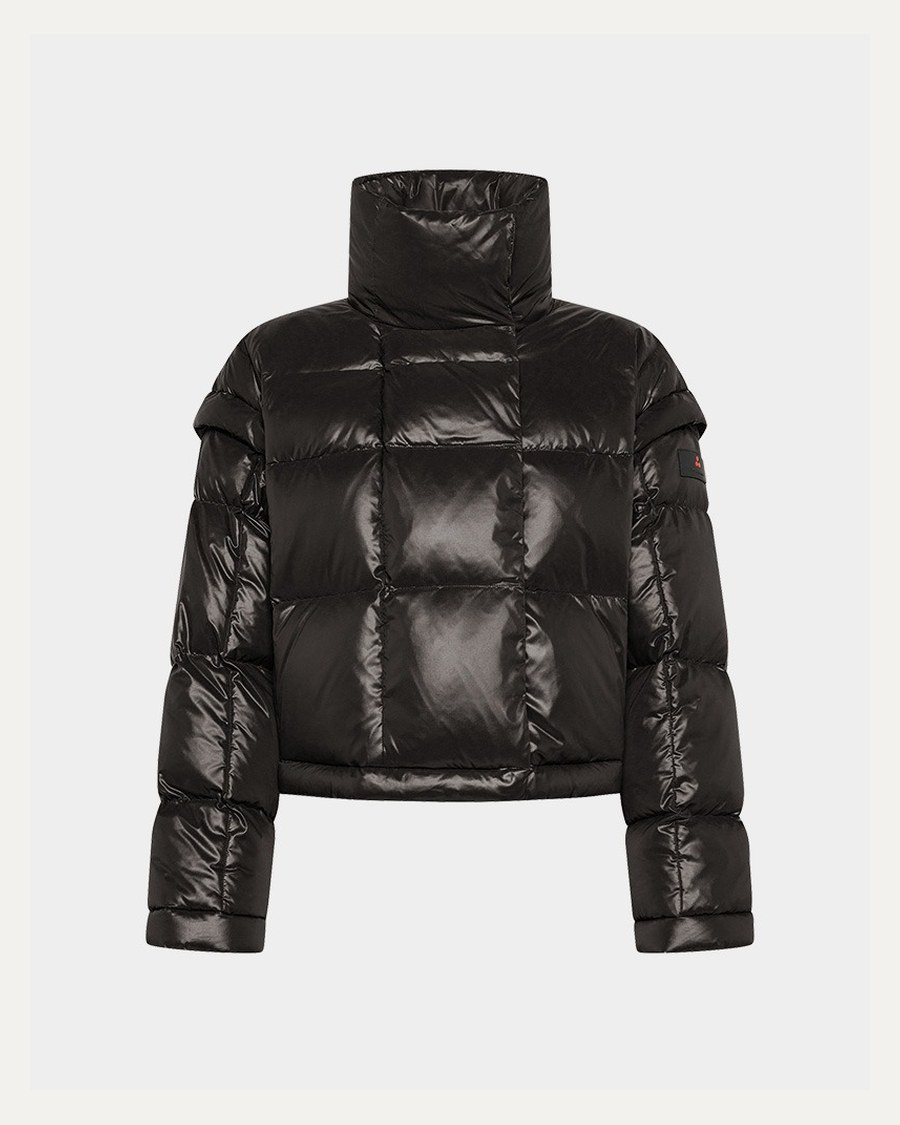
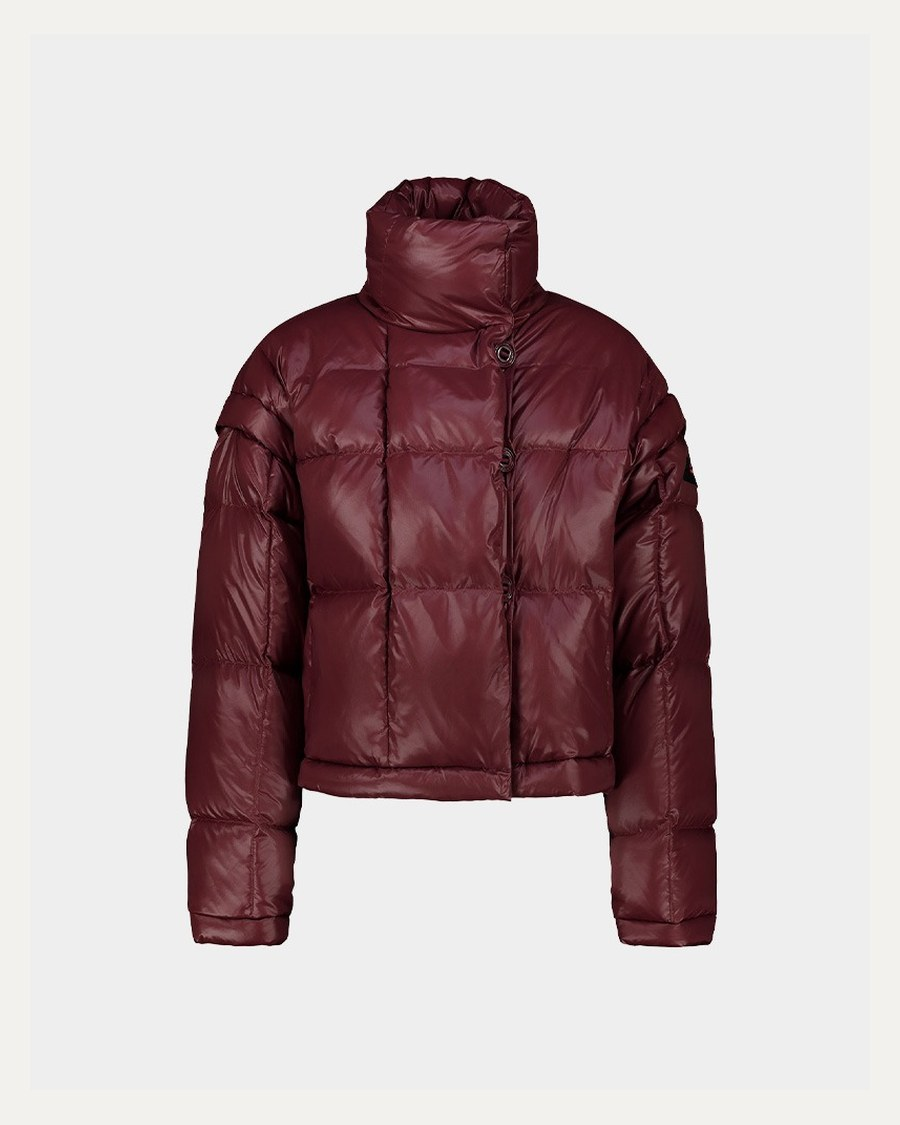
fix: 페트레이 26 TOGO 대표 이미지를 와인 컬러 컷으로 교체, 월드컵 기준일 11/21 통일

Changed region(s): [[0.1556, 0.1244, 0.84, 0.8711]]

diff --git a/look-koso-young-peuterey-togo.html b/look-koso-young-peuterey-togo.html
@@ -16,18 +16,18 @@
 <meta property="og:title" content="고소영 와인색 패딩, 페트레이 26 TOGO 1,580,000원 → 1,264,000원">
 <meta property="og:description" content="고소영이 유튜브 촬영에서 입은 페트레이 26 TOGO 토고 다운. 소비자가 1,580,000원에서 20% 할인된 1,264,000원, 폴리아미드 100% 겉감과 덕다운 80% 충전재, 7만 원대 대안까지 정리했습니다.">
 <meta property="og:url" content="https://jinyou1129-bit.github.io/star-fit-pick/look-koso-young-peuterey-togo.html">
-<meta property="og:image" content="https://jinyou1129-bit.github.io/star-fit-pick/assets/looks/koso-young-peuterey-togo.jpg?v=2026112301">
+<meta property="og:image" content="https://jinyou1129-bit.github.io/star-fit-pick/assets/looks/koso-young-peuterey-togo.jpg?v=2026112302">
 <meta property="og:image:width" content="900">
 <meta property="og:image:height" content="1125">
 <meta name="twitter:card" content="summary_large_image">
 <meta name="twitter:title" content="고소영 와인색 패딩, 페트레이 26 TOGO 1,580,000원 → 1,264,000원">
 <meta name="twitter:description" content="고소영이 유튜브 촬영에서 입은 페트레이 26 TOGO 토고 다운. 소비자가 1,580,000원에서 20% 할인된 1,264,000원, 폴리아미드 100% 겉감과 덕다운 80% 충전재, 7만 원대 대안까지 정리했습니다.">
-<meta name="twitter:image" content="https://jinyou1129-bit.github.io/star-fit-pick/assets/looks/koso-young-peuterey-togo.jpg?v=2026112301">
+<meta name="twitter:image" content="https://jinyou1129-bit.github.io/star-fit-pick/assets/looks/koso-young-peuterey-togo.jpg?v=2026112302">
 <link rel="icon" href="assets/favicon.svg" type="image/svg+xml">
 <link rel="preconnect" href="https://cdn.jsdelivr.net" crossorigin>
 <link rel="stylesheet" href="https://cdn.jsdelivr.net/gh/orioncactus/pretendard@v1.3.9/dist/web/variable/pretendardvariable-dynamic-subset.min.css">
 <link rel="stylesheet" href="style.css?v=20261122a">
-<script type="application/ld+json">{"@context":"https://schema.org","@graph":[{"@type":"Article","@id":"https://jinyou1129-bit.github.io/star-fit-pick/look-koso-young-peuterey-togo.html#article","headline":"고소영 와인색 패딩, 페트레이 26 TOGO 1,580,000원 → 1,264,000원","description":"고소영이 유튜브 촬영에서 입은 페트레이 26 TOGO 토고 다운. 소비자가 1,580,000원에서 20% 할인된 1,264,000원, 폴리아미드 100% 겉감과 덕다운 80% 충전재, 7만 원대 대안까지 정리했습니다.","image":["https://jinyou1129-bit.github.io/star-fit-pick/assets/looks/koso-young-peuterey-togo.jpg?v=2026112301"],"datePublished":"2026-11-21","dateModified":"2026-11-21","inLanguage":"ko-KR","author":{"@type":"Organization","name":"스타핏픽","url":"https://jinyou1129-bit.github.io/star-fit-pick/"},"publisher":{"@type":"Organization","name":"스타핏픽","url":"https://jinyou1129-bit.github.io/star-fit-pick/"},"mainEntityOfPage":{"@type":"WebPage","@id":"https://jinyou1129-bit.github.io/star-fit-pick/look-koso-young-peuterey-togo.html"},"articleSection":"착장 포스팅","keywords":"고소영 페트레이, 연예인 착장 가격, 일상, 가성비 대안","about":[{"@type":"Product","name":"26 TOGO 토고","brand":{"@type":"Brand","name":"페트레이"},"offers":{"@type":"Offer","price":"1264000","priceCurrency":"KRW","availability":"https://schema.org/InStock"}},{"@type":"Product","name":"울트라라이트 다운 재킷","brand":{"@type":"Brand","name":"유니클로"},"offers":{"@type":"Offer","price":"79900","priceCurrency":"KRW","availability":"https://schema.org/InStock"}}],"isPartOf":{"@type":"CollectionPage","@id":"https://jinyou1129-bit.github.io/star-fit-pick/posts.html"}},{"@type":"BreadcrumbList","itemListElement":[{"@type":"ListItem","position":1,"name":"스타핏픽","item":"https://jinyou1129-bit.github.io/star-fit-pick/"},{"@type":"ListItem","position":2,"name":"착장 포스팅","item":"https://jinyou1129-bit.github.io/star-fit-pick/posts.html"},{"@type":"ListItem","position":3,"name":"고소영 와인색 패딩, 페트레이 26 TOGO 1,580,000원 → 1,264,000원","item":"https://jinyou1129-bit.github.io/star-fit-pick/look-koso-young-peuterey-togo.html"}]}]}</script>
+<script type="application/ld+json">{"@context":"https://schema.org","@graph":[{"@type":"Article","@id":"https://jinyou1129-bit.github.io/star-fit-pick/look-koso-young-peuterey-togo.html#article","headline":"고소영 와인색 패딩, 페트레이 26 TOGO 1,580,000원 → 1,264,000원","description":"고소영이 유튜브 촬영에서 입은 페트레이 26 TOGO 토고 다운. 소비자가 1,580,000원에서 20% 할인된 1,264,000원, 폴리아미드 100% 겉감과 덕다운 80% 충전재, 7만 원대 대안까지 정리했습니다.","image":["https://jinyou1129-bit.github.io/star-fit-pick/assets/looks/koso-young-peuterey-togo.jpg?v=2026112302"],"datePublished":"2026-11-21","dateModified":"2026-11-21","inLanguage":"ko-KR","author":{"@type":"Organization","name":"스타핏픽","url":"https://jinyou1129-bit.github.io/star-fit-pick/"},"publisher":{"@type":"Organization","name":"스타핏픽","url":"https://jinyou1129-bit.github.io/star-fit-pick/"},"mainEntityOfPage":{"@type":"WebPage","@id":"https://jinyou1129-bit.github.io/star-fit-pick/look-koso-young-peuterey-togo.html"},"articleSection":"착장 포스팅","keywords":"고소영 페트레이, 연예인 착장 가격, 일상, 가성비 대안","about":[{"@type":"Product","name":"26 TOGO 토고","brand":{"@type":"Brand","name":"페트레이"},"offers":{"@type":"Offer","price":"1264000","priceCurrency":"KRW","availability":"https://schema.org/InStock"}},{"@type":"Product","name":"울트라라이트 다운 재킷","brand":{"@type":"Brand","name":"유니클로"},"offers":{"@type":"Offer","price":"79900","priceCurrency":"KRW","availability":"https://schema.org/InStock"}}],"isPartOf":{"@type":"CollectionPage","@id":"https://jinyou1129-bit.github.io/star-fit-pick/posts.html"}},{"@type":"BreadcrumbList","itemListElement":[{"@type":"ListItem","position":1,"name":"스타핏픽","item":"https://jinyou1129-bit.github.io/star-fit-pick/"},{"@type":"ListItem","position":2,"name":"착장 포스팅","item":"https://jinyou1129-bit.github.io/star-fit-pick/posts.html"},{"@type":"ListItem","position":3,"name":"고소영 와인색 패딩, 페트레이 26 TOGO 1,580,000원 → 1,264,000원","item":"https://jinyou1129-bit.github.io/star-fit-pick/look-koso-young-peuterey-togo.html"}]}]}</script>
 </head>
 <body>
 <a class="skip" href="#article">본문으로 바로가기</a>
@@ -65,10 +65,10 @@
     <article class="article-body">
       <figure class="post-figure">
         <picture>
-          <source srcset="assets/looks/koso-young-peuterey-togo.webp?v=2026112301" type="image/webp">
-          <img src="assets/looks/koso-young-peuterey-togo.jpg?v=2026112301" alt="와인 컬러 26 토고 다운 패딩을 입은 모델의 페트레이 공식 제품 컷" width="900" height="1125" loading="eager" fetchpriority="high" decoding="async">
+          <source srcset="assets/looks/koso-young-peuterey-togo.webp?v=2026112302" type="image/webp">
+          <img src="assets/looks/koso-young-peuterey-togo.jpg?v=2026112302" alt="와인 컬러 26 토고 다운 패딩을 입은 모델의 페트레이 공식 제품 컷" width="900" height="1125" loading="eager" fetchpriority="high" decoding="async">
         </picture>
-        <figcaption><b>페트레이 공식</b> · 브랜드 공식 제품 컷 (실착 사진 아님) · <a href="https://peuterey.co.kr/product/26-togo-%ED%86%A0%EA%B3%A0/2111/" target="_blank" rel="noopener nofollow">사진 출처 열기 ↗</a></figcaption>
+        <figcaption><b>페트레이 공식</b> · 브랜드 공식 제품 컷 (실착 사진 아님) · <a href="https://peuterey.co.kr/product/26-togo-%ED%86%A0%EA%B3%A0/2089/" target="_blank" rel="noopener nofollow">사진 출처 열기 ↗</a></figcaption>
       </figure>
 
 <p>100만 원이 넘는 패딩을 설명할 때 흔히 쓰는 말은 '브랜드값'입니다. 하지만 페트레이 26 TOGO는 소재와 구조를 보면 이야기가 조금 달라집니다. 겉감과 안감이 모두 폴리아미드 100%, 충전재는 덕다운 80%에 덕깃털 20%입니다. 이 조합은 가볍고 복원력이 좋은 다운 패딩의 교과서적인 구성입니다.</p>
@@ -109,7 +109,7 @@
           <div class="buy-row" id="buy-alt"></div>
         </div>
       </div>
-      <noscript><p class="post-note">구매 링크는 JavaScript로 생성됩니다. <a href="https://peuterey.co.kr/product/26-togo-%ED%86%A0%EA%B3%A0/2111/" target="_blank" rel="noopener sponsored">제품·판매 페이지</a></p></noscript>
+      <noscript><p class="post-note">구매 링크는 JavaScript로 생성됩니다. <a href="https://peuterey.co.kr/product/26-togo-%ED%86%A0%EA%B3%A0/2089/" target="_blank" rel="noopener sponsored">제품·판매 페이지</a></p></noscript>
       <p class="post-note">가격은 2026년 11월 21일 확인 기준이며 판매처·쿠폰·재고에 따라 달라질 수 있습니다. 대안템을 고르면 1,184,100원을 아낄 수 있습니다. 이 페이지의 구매 링크는 제휴(어필리에이트) 링크를 포함할 수 있습니다. <a href="privacy.html">자세히</a></p>
 
       <h2 id="more">같은 무드의 다른 셀럽 착장</h2>
@@ -191,7 +191,7 @@
 <script src="data/config.js?v=2026112201"></script>
 <script>
 (function () {
-  var o = {"brand": "페트레이", "name": "26 TOGO 토고", "officialUrl": "https://peuterey.co.kr/product/26-togo-%ED%86%A0%EA%B3%A0/2111/", "alt": {"brand": "유니클로", "name": "울트라라이트 다운 재킷", "platform": "official", "query": "유니클로 울트라라이트 다운 재킷"}};
+  var o = {"brand": "페트레이", "name": "26 TOGO 토고", "officialUrl": "https://peuterey.co.kr/product/26-togo-%ED%86%A0%EA%B3%A0/2089/", "alt": {"brand": "유니클로", "name": "울트라라이트 다운 재킷", "platform": "official", "query": "유니클로 울트라라이트 다운 재킷"}};
   var cfg = window.SFP_CONFIG;
   function a(href, label, cls) {
     return '<a class="buy-btn' + (cls ? ' ' + cls : '') + '" href="' + href + '" target="_blank" rel="noopener sponsored">' + label + '</a>';

diff --git a/data/looks.js b/data/looks.js
@@ -3069,9 +3069,9 @@ window.SFP_LOOKS = [
   },
   {
     id: "koso-young-peuterey-togo",
-    image: "assets/looks/koso-young-peuterey-togo.webp?v=2026112301",
-    imageJpg: "assets/looks/koso-young-peuterey-togo.jpg?v=2026112301",
-    photo: {label: "페트레이 공식", kind: "product", what: "브랜드 공식 제품 컷 (실착 사진 아님)", url: "https://peuterey.co.kr/product/26-togo-%ED%86%A0%EA%B3%A0/2111/"},
+    image: "assets/looks/koso-young-peuterey-togo.webp?v=2026112302",
+    imageJpg: "assets/looks/koso-young-peuterey-togo.jpg?v=2026112302",
+    photo: {label: "페트레이 공식", kind: "product", what: "브랜드 공식 제품 컷 (실착 사진 아님)", url: "https://peuterey.co.kr/product/26-togo-%ED%86%A0%EA%B3%A0/2089/"},
     imageAlt: "와인 컬러 26 토고 다운 패딩을 입은 모델의 페트레이 공식 제품 컷",
     celeb: "고소영",
     group: "배우",
@@ -3097,7 +3097,7 @@ window.SFP_LOOKS = [
         season: "2026 FW",
         fit: "글로시한 표면에 퀼팅을 넣은 크롭 실루엣, 목을 감싸는 하이 스탠드 카라",
         cons: "공식몰 기준 품절 옵션이 있고, 126만 원대라 대안과의 가격 차가 100만 원 이상",
-        officialUrl: "https://peuterey.co.kr/product/26-togo-%ED%86%A0%EA%B3%A0/2111/"
+        officialUrl: "https://peuterey.co.kr/product/26-togo-%ED%86%A0%EA%B3%A0/2089/"
     },
     story: "고소영이 유튜브 촬영에서 입은 와인색 패딩입니다. 청바지에 패딩 하나만 걸쳤는데도 50대라는 나이가 믿기지 않을 만큼 정돈돼 보였습니다. 페트레이의 2026 FW 26 TOGO, 소비자가 1,580,000원에 공식몰 판매가 1,264,000원입니다. 100만 원대 패딩이 왜 비싼지 설명이 되는 제품이라, 가격보다 소재와 실루엣을 먼저 보게 됩니다.",
     point: "글로시한 패딩은 빛을 받으면 부피가 커 보입니다. 고소영은 하이 스탠드 카라를 세우지 않고 자연스럽게 눕혀 목선을 드러냈습니다. 이렇게 눕히면 얼굴 주변이 밝아지고 패딩의 부피가 줄어 보입니다. 아래에 연청 데님을 맞추면 와인색이 무거워지지 않고, 검정 팬츠를 입으면 밤에 입는 옷처럼 보입니다.",
@@ -3105,7 +3105,7 @@ window.SFP_LOOKS = [
     sources: [
         {
             label: "페트레이 공식몰 26 TOGO 토고",
-            url: "https://peuterey.co.kr/product/26-togo-%ED%86%A0%EA%B3%A0/2111/"
+            url: "https://peuterey.co.kr/product/26-togo-%ED%86%A0%EA%B3%A0/2089/"
         },
         {
             label: "셀럽모드 고소영 페트레이 패딩 정보",

diff --git a/worldcup.html b/worldcup.html
@@ -34,7 +34,7 @@
 <body>
 <a class="skip" href="#wc-play">본문으로 바로가기</a>
 
-<p class="ticker"><span class="ticker-in"><b>2026.11.20</b> 착장 55벌 · 이상형 월드컵 16강 · 우승 룩 정품 vs 10만 원 이하 대안</span></p>
+<p class="ticker"><span class="ticker-in"><b>2026.11.21</b> 착장 55벌 · 이상형 월드컵 16강 · 우승 룩 정품 vs 10만 원 이하 대안</span></p>
 
 <header class="site-header">
   <div class="wrap nav-row">
